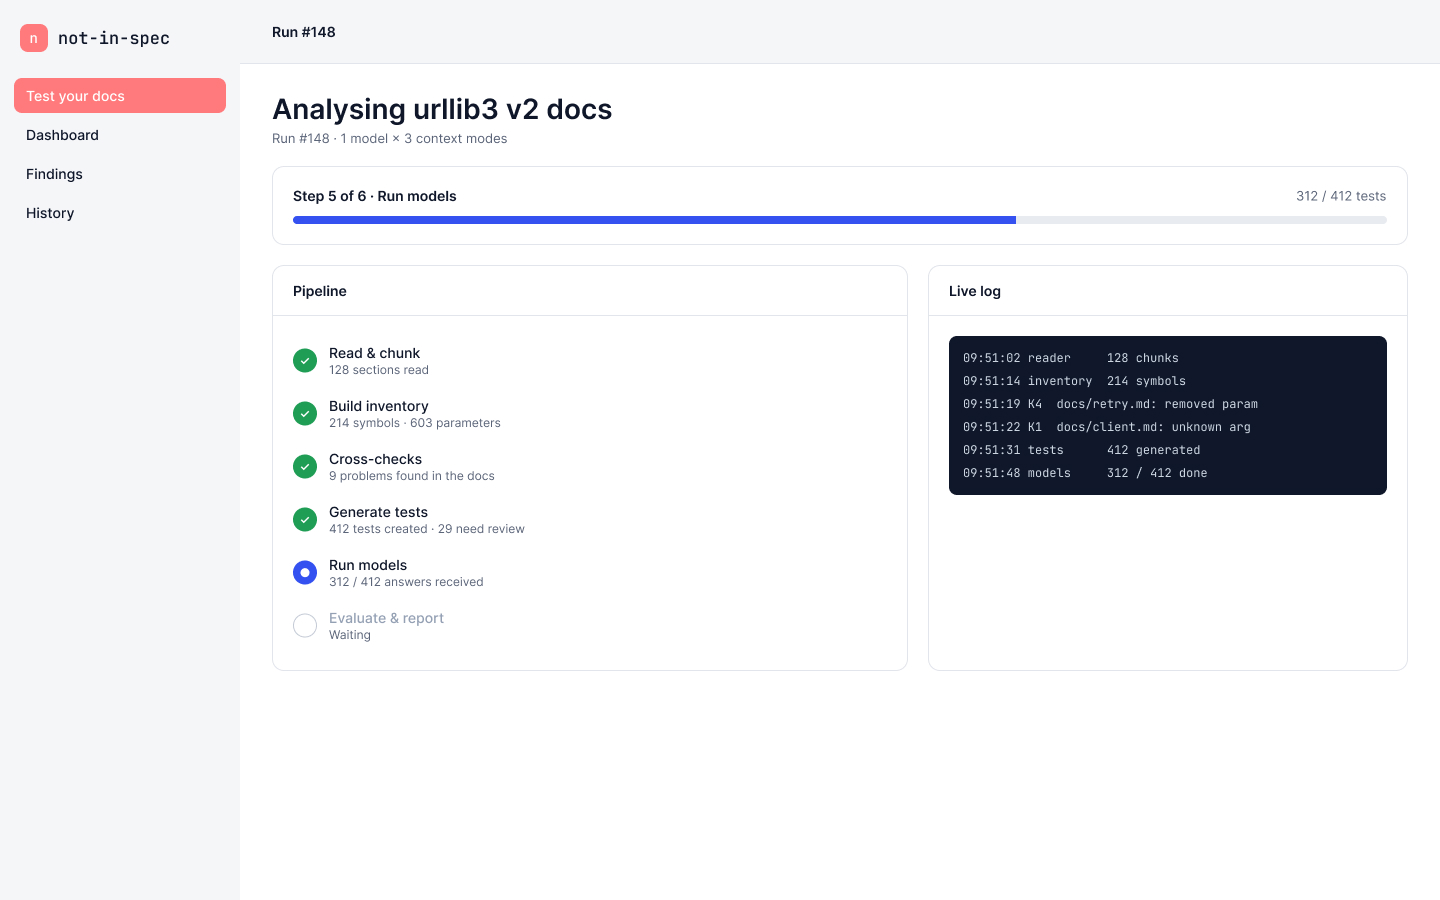
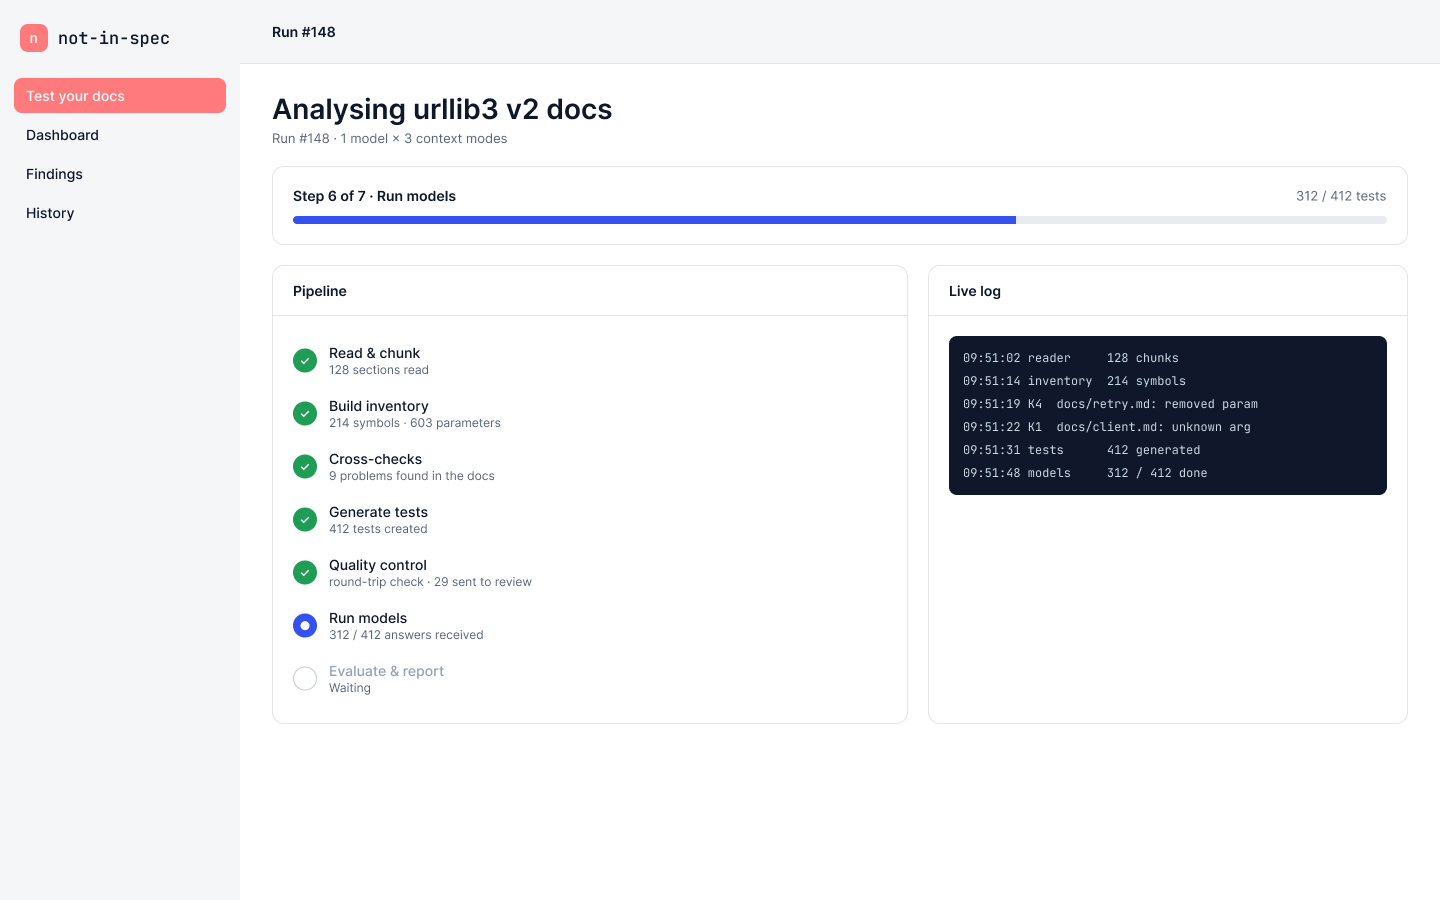
[CHANGE] docs/design: new screens from Figma after the review of #53

diff --git a/docs/design/README.md b/docs/design/README.md
@@ -13,23 +13,23 @@ Rules for every screen:
 
 The entry page. The user uploads **built** documentation (Sphinx XML from `sphinx-build -b xml`, Markdown, `openapi.yaml`, `CHANGELOG.md`, `llms.txt`) or connects a GitHub repository by URL, branch and docs path, then starts the analysis with **Run analysis**.
 
-*Future state, not MVP.* In the MVP the web UI is read-only and runs start only from the GitHub Action ([SPEC §1.1](../SPEC.md#11-what-we-are-not-building), [§11.1](../SPEC.md#111-upload-api)). Even then, an upload is never a Sphinx project (a zip of sources): our service never builds docs, it only parses built inputs (SPEC §1.1). The screen still says "Sphinx project (.zip)" and "docs.zip"; the text above wins.
+*Future state, not MVP.* In the MVP the web UI is read-only and runs start only from the GitHub Action ([SPEC §1.1](../SPEC.md#11-what-we-are-not-building), [§11.1](../SPEC.md#111-upload-api)). Even then, an upload is never a Sphinx project (a zip of sources): our service never builds docs, it only parses built inputs (SPEC §1.1).
 
 ## 2. Run progress
 
 ![Run progress](02-run-progress.jpg)
 
-A running analysis. It shows the pipeline steps (read & chunk, inventory, cross-checks, test generation, quality control, model runs, evaluation) with counts per step, an overall progress bar, and a live log. Quality control (SPEC §6.8: checks, round-trip solvers, review) runs before items are frozen and can take a while, so it has its own step; the screen still shows it inside "Generate tests".
+A running analysis. It shows the pipeline steps (read & chunk, inventory, cross-checks, test generation, quality control, model runs, evaluation) with counts per step, an overall progress bar, and a live log. Quality control (SPEC §6.8: checks, round-trip solvers, review) runs before items are frozen and can take a while, so it has its own step.
 
 ## 3. Dashboard
 
 ![Dashboard](03-dashboard.jpg)
 
 Results of one run compared with its baseline (SPEC §7).
-- **Level tiles:** L0, L1, L3 and, for OpenAPI docs, L4 (SPEC §16.1), each shown separately. They show **one model and one mode**, chosen with a selector above them (default: the first model of the run, `gold`). The screen has no selector and no L4 tile yet.
+- **Level tiles:** L0, L1, L3 and, for OpenAPI docs, L4 (SPEC §16.1), each shown separately. They show **one model and one mode**, chosen with a selector above them (default: the first model of the run, `gold`).
 - **L3 by model × context mode** (none, retrieved, gold) and **failure categories** of the selected model and mode.
 - **Banner:** only on PR runs. It shows the run's stored verdict. When the check fails, it names the level, the change and its p-value, as the PR comment does (SPEC §2.4): "L3 · 91 % → 64 % (p = 0.01) on stable items in changed sections: the PR check fails." The build fails only on a statistically significant L3 / L4 drop on stable items in changed sections (SPEC §7), so the banner never appears just because a percentage went down. Nightly and main runs have no banner.
-- **Worst sections first:** sorted by L3 success of the selected model and mode, lowest first, with the change against the baseline and the most common error. The screen sorts by the drop instead; the order here wins.
+- **Worst sections first:** sorted by L3 success of the selected model and mode, lowest first, with the change against the baseline and the most common error.
 
 ## 4. Test item detail
 
